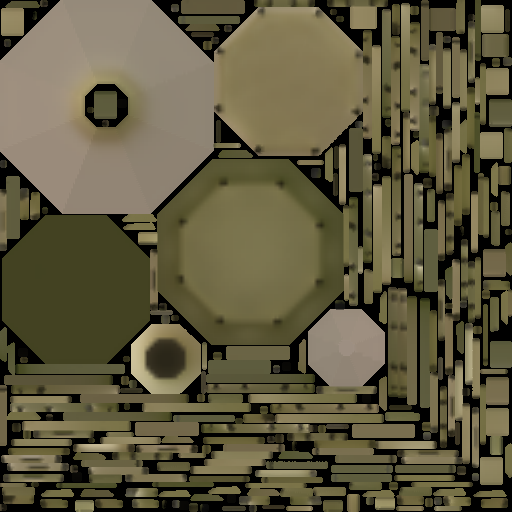
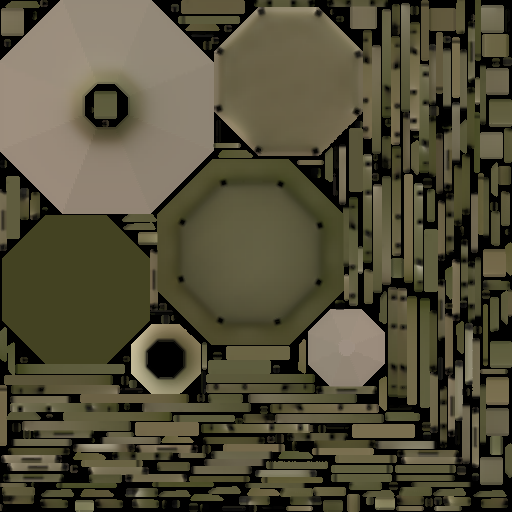
Update bake light bounce & fix seam lighting on lightmap

diff --git a/Projects/Skylicht/Engine/Source/RenderPipeline/CDeferredRP.cpp b/Projects/Skylicht/Engine/Source/RenderPipeline/CDeferredRP.cpp
@@ -33,6 +33,7 @@ https://github.com/skylicht-lab/skylicht-engine
 #include "Lighting/CPointLight.h"
 #include "IndirectLighting/CIndirectLightingData.h"
 #include "Material/Shader/ShaderCallback/CShaderMaterial.h"
+#include "Lighting/CDirectionalLight.h"
 
 namespace Skylicht
 {
@@ -356,10 +357,7 @@ namespace Skylicht
 		if (CBaseRP::s_bakeMode == true && CBaseRP::s_bakeLMMode)
 		{
 			// default light setting
-			if (CBaseRP::s_bakeBounce <= 1)
-				CShaderManager::getInstance()->ShaderVec3[0] = core::vector3df(1.0f, 1.0f, 1.0f);
-			else
-				CShaderManager::getInstance()->ShaderVec3[0] = core::vector3df(1.0f, 0.6f, 0.0f);
+			CShaderManager::getInstance()->ShaderVec3[0] = core::vector3df(1.0f, 1.0f, 1.0f);
 		}
 		else
 		{
@@ -388,6 +386,10 @@ namespace Skylicht
 		if (useCustomViewport)
 			driver->setViewPort(customViewport);
 
+		u32 totalBounce = 1;
+		if (CDirectionalLight::getCurrentDirectionLight() != NULL)
+			totalBounce = CDirectionalLight::getCurrentDirectionLight()->getBounce();
+
 		CLightCullingSystem *lightCullingSystem = entityManager->getSystem<CLightCullingSystem>();
 		if (lightCullingSystem != NULL)
 		{
@@ -395,24 +397,37 @@ namespace Skylicht
 			for (u32 i = 0, n = listLight.size(); i < n; i++)
 			{
 				CLight *light = listLight[i]->Light;
-				CPointLight *pointLight = dynamic_cast<CPointLight*>(light);
-				if (pointLight != NULL)
+
+				bool renderLight = true;
+
+				if (s_bakeMode == true && s_bakeLMMode == true)
 				{
-					CShaderLighting::setPointLight(pointLight);
+					u32 lightBounce = light->getBounce();
+					if ((u32)s_bakeBounce < totalBounce - lightBounce)
+						renderLight = false;
+				}
 
-					if (pointLight->isCastShadow() == true)
+				if (renderLight == true)
+				{
+					CPointLight *pointLight = dynamic_cast<CPointLight*>(light);
+					if (pointLight != NULL)
 					{
-						m_pointLightPass.MaterialType = m_pointLightShadowShader;
-						m_pointLightPass.setTexture(3, pointLight->createGetDepthTexture());
-					}
-					else
-					{
-						m_pointLightPass.MaterialType = m_pointLightShader;
-						m_pointLightPass.setTexture(3, NULL);
-					}
+						CShaderLighting::setPointLight(pointLight);
 
-					beginRender2D(renderW, renderH);
-					renderBufferToTarget(0.0f, 0.0f, renderW, renderH, m_pointLightPass);
+						if (pointLight->isCastShadow() == true)
+						{
+							m_pointLightPass.MaterialType = m_pointLightShadowShader;
+							m_pointLightPass.setTexture(3, pointLight->createGetDepthTexture());
+						}
+						else
+						{
+							m_pointLightPass.MaterialType = m_pointLightShader;
+							m_pointLightPass.setTexture(3, NULL);
+						}
+
+						beginRender2D(renderW, renderH);
+						renderBufferToTarget(0.0f, 0.0f, renderW, renderH, m_pointLightPass);
+					}
 				}
 			}
 		}

diff --git a/Samples/Lightmapping/Source/CViewBakeLightmap.cpp b/Samples/Lightmapping/Source/CViewBakeLightmap.cpp
@@ -4,8 +4,6 @@
 #include "Context/CContext.h"
 #include "ViewManager/CViewManager.h"
 
-u32 CViewBakeLightmap::s_numLightBounce = 3;
-
 CViewBakeLightmap::CViewBakeLightmap() :
 	m_currentPass(0),
 	m_currentMB(0),
@@ -163,6 +161,8 @@ void CViewBakeLightmap::onDestroy()
 {
 	// save progress to continue next time
 	saveProgress();
+
+	CBaseRP::setBakeLightmapMode(false);
 }
 
 void CViewBakeLightmap::onUpdate()
@@ -175,6 +175,12 @@ void CViewBakeLightmap::onUpdate()
 		CDeferredRP::enableRenderIndirect(true);
 
 	CBaseRP::SetBakeLightingMapBounce(m_lightBounce);
+	CBaseRP::setBakeLightmapMode(true);
+
+	u32 numLightBounce = 1;
+
+	if (CDirectionalLight::getCurrentDirectionLight() != NULL)
+		numLightBounce = CDirectionalLight::getCurrentDirectionLight()->getBounce();
 
 	for (int loopCount = 0; loopCount < 64; loopCount++)
 	{
@@ -194,7 +200,7 @@ void CViewBakeLightmap::onUpdate()
 
 			char status[512];
 			sprintf(status, "LIGHTMAPPING (%d/%d):\n\n- MeshBuffer: %d/%d\n- Bake step: %d/%d\n- Triangle: %d/%d\n- Time: %d seconds - (%02d:%02d) hm",
-				m_lightBounce + 1, s_numLightBounce,
+				m_lightBounce + 1, numLightBounce,
 				m_currentMB + 1, (int)m_meshBuffers.size(),
 				m_currentPass + 1, 7,
 				m_currentTris, numTris,
@@ -430,7 +436,7 @@ void CViewBakeLightmap::onUpdate()
 				for (int i = 0; i < m_numberRasterize; i++)
 					m_lmRasterize[i]->resetBake();
 
-				if (m_lightBounce >= s_numLightBounce)
+				if (m_lightBounce >= numLightBounce)
 				{
 					gotoDemoView();
 				}
@@ -607,8 +613,13 @@ void CViewBakeLightmap::loadProgress()
 
 			if (m_currentPass >= (int)CRasterisation::PassCount)
 			{
+				u32 numLightBounce = 1;
+
+				if (CDirectionalLight::getCurrentDirectionLight() != NULL)
+					numLightBounce = CDirectionalLight::getCurrentDirectionLight()->getBounce();
+
 				// finish
-				if (m_lightBounce >= s_numLightBounce)
+				if (m_lightBounce >= numLightBounce)
 				{
 					gotoDemoView();
 				}

diff --git a/Samples/LightmappingVertex/Source/CViewBakeLightmap.cpp b/Samples/LightmappingVertex/Source/CViewBakeLightmap.cpp
@@ -5,8 +5,6 @@
 #include "CViewDemo.h"
 #include "Importer/Utils/CMeshUtils.h"
 
-int CViewBakeLightmap::s_numLightBounce = 2;
-
 CViewBakeLightmap::CViewBakeLightmap() :
 	m_guiObject(NULL),
 	m_bakeCameraObject(NULL),
@@ -115,7 +113,7 @@ void CViewBakeLightmap::onInit()
 
 void CViewBakeLightmap::onDestroy()
 {
-
+	CBaseRP::setBakeLightmapMode(false);
 }
 
 void CViewBakeLightmap::onUpdate()
@@ -130,9 +128,14 @@ void CViewBakeLightmap::onUpdate()
 	if (scene != NULL)
 		scene->update();
 
+	// get total light bounce
+	u32 numLightBounce = 1;
+	if (CDirectionalLight::getCurrentDirectionLight() != NULL)
+		numLightBounce = CDirectionalLight::getCurrentDirectionLight()->getBounce();
+
 	// bake lightmap
 	u32 numMB = m_neshBuffers.size();
-	if (m_currentMeshBuffer < numMB && s_numLightBounce > 0)
+	if (m_currentMeshBuffer < numMB && numLightBounce > 0)
 	{
 		if (m_lightBounce == 0)
 			CDeferredRP::enableRenderIndirect(false);
@@ -140,6 +143,7 @@ void CViewBakeLightmap::onUpdate()
 			CDeferredRP::enableRenderIndirect(true);
 
 		CBaseRP::SetBakeLightingMapBounce(m_lightBounce);
+		CBaseRP::setBakeLightmapMode(true);
 
 		IMeshBuffer *mb = m_neshBuffers[m_currentMeshBuffer];
 		SColorBuffer *cb = m_colorBuffers[m_currentMeshBuffer];
@@ -156,7 +160,7 @@ void CViewBakeLightmap::onUpdate()
 		char status[512];
 		sprintf(status, "LIGHTMAPPING (%d/%d): %d%%\n\n- MeshBuffer: %d/%d\n- Vertex: %d/%d\n\n - Total: %d\n-Time: %d seconds",
 			m_lightBounce + 1,
-			s_numLightBounce,
+			numLightBounce,
 			(int)percent,
 			m_currentMeshBuffer + 1, numMB,
 			m_currentVertex, numVtx,
@@ -197,7 +201,7 @@ void CViewBakeLightmap::onUpdate()
 		m_currentMeshBuffer = 0;
 		m_currentVertex = 0;
 
-		if (m_lightBounce >= s_numLightBounce)
+		if (m_lightBounce >= numLightBounce)
 		{
 			// test exporter
 			if (m_renderMesh.size() > 0)

diff --git a/Samples/Lightmapping/Source/CViewInit.cpp b/Samples/Lightmapping/Source/CViewInit.cpp
@@ -80,6 +80,7 @@ void CViewInit::onInit()
 
 	CDirectionalLight *directionalLight = lightObj->addComponent<CDirectionalLight>();
 	directionalLight->setIntensity(1.0f);
+	directionalLight->setBounce(3);
 
 	CTransformEuler *lightTransform = lightObj->getTransformEuler();
 	lightTransform->setPosition(core::vector3df(2.0f, 2.0f, 2.0f));
@@ -106,6 +107,7 @@ void CViewInit::onInit()
 		CPointLight *pointLight = pointLightObj->addComponent<CPointLight>();
 		pointLight->setShadow(true);
 		pointLight->setColor(SColor(255, 221, 123, 34));
+		pointLight->setBounce(1);
 
 		if (i >= 4)
 			pointLight->setRadius(1.0f);
@@ -122,6 +124,8 @@ void CViewInit::onInit()
 #else
 	CGameObject *lightObj = zone->createEmptyObject();
 	CDirectionalLight *directionalLight = lightObj->addComponent<CDirectionalLight>();
+	directionalLight->setBounce(2);
+
 	CTransformEuler *lightTransform = lightObj->getTransformEuler();
 	lightTransform->setPosition(core::vector3df(2.0f, 2.0f, 2.0f));
 

diff --git a/Projects/Skylicht/Engine/Source/Lighting/CDirectionalLight.cpp b/Projects/Skylicht/Engine/Source/Lighting/CDirectionalLight.cpp
@@ -30,9 +30,12 @@ https://github.com/skylicht-lab/skylicht-engine
 
 namespace Skylicht
 {
+	CDirectionalLight *CDirectionalLight::s_currentLight = NULL;
+
 	CDirectionalLight::CDirectionalLight()
 	{
-
+		// default 3 bounce
+		m_bakeBounce = 3;
 	}
 
 	CDirectionalLight::~CDirectionalLight()
@@ -44,6 +47,8 @@ namespace Skylicht
 	void CDirectionalLight::initComponent()
 	{
 		CShaderLighting::setDirectionalLight(this);
+
+		s_currentLight = this;
 	}
 
 	void CDirectionalLight::updateComponent()

diff --git a/Projects/Skylicht/Lightmapper/Source/Lightmapper/CLightmapper.cpp b/Projects/Skylicht/Lightmapper/Source/Lightmapper/CLightmapper.cpp
@@ -127,9 +127,7 @@ namespace Skylicht
 			{
 				int numMT = count - current;
 				numMT = core::min_(numMT, maxMT);
-
-				CBaseRP::setBakeLightmapMode(true);
-
+				
 				// bake and get SH result
 				baker->bake(camera,
 					rp,
@@ -140,8 +138,6 @@ namespace Skylicht
 					binormal + current,
 					numMT,
 					numFace);
-
-				CBaseRP::setBakeLightmapMode(false);
 
 				for (int i = 0; i < numMT; i++)
 					out.push_back(baker->getSH(i));

diff --git a/Projects/Skylicht/Engine/Source/Lighting/CLight.h b/Projects/Skylicht/Engine/Source/Lighting/CLight.h
@@ -55,6 +55,9 @@ namespace Skylicht
 		//! Intensity of light
 		float m_intensity;
 
+		//! Number bounce of light on bake lighting
+		u32 m_bakeBounce;
+
 	public:
 		CLight();
 
@@ -78,6 +81,16 @@ namespace Skylicht
 		inline float getRadius()
 		{
 			return m_radius;
+		}
+
+		void setBounce(u32 b)
+		{
+			m_bakeBounce = b;
+		}
+
+		u32 getBounce()
+		{
+			return m_bakeBounce;
 		}
 
 		void setRadius(float r)

diff --git a/Projects/Skylicht/Engine/Source/Lighting/CDirectionalLight.h b/Projects/Skylicht/Engine/Source/Lighting/CDirectionalLight.h
@@ -30,6 +30,9 @@ namespace Skylicht
 {
 	class CDirectionalLight : public CLight
 	{
+	protected:
+		static CDirectionalLight *s_currentLight;
+
 	public:
 		CDirectionalLight();
 
@@ -38,5 +41,10 @@ namespace Skylicht
 		virtual void initComponent();
 
 		virtual void updateComponent();
+
+		static CDirectionalLight* getCurrentDirectionLight()
+		{
+			return s_currentLight;
+		}
 	};
 }

diff --git a/Projects/Skylicht/Lightmapper/Source/Rasterisation/CRasterisation.cpp b/Projects/Skylicht/Lightmapper/Source/Rasterisation/CRasterisation.cpp
@@ -651,8 +651,8 @@ namespace Skylicht
 
 				// use QuadraticEaseIn function (y = x^2) or CubicEaseIn (y = x^3)
 				// [x -> 0.0 - 1.0] 
-				// [y -> 1.0 - 1.3]
-				float darkMultipler = 1.0f + 1.3f * l * l * l;
+				// [y -> 1.0 - 1.4]
+				float darkMultipler = 1.0f + 1.4f * l * l * l;
 
 				// compress lighting by 3.0
 				result *= darkMultipler / 3.0f;

diff --git a/Projects/Skylicht/Engine/Source/Lighting/CLight.cpp b/Projects/Skylicht/Engine/Source/Lighting/CLight.cpp
@@ -31,7 +31,8 @@ namespace Skylicht
 		m_castShadow(false),
 		m_color(1.0f, 1.0f, 1.0f, 1.0f),
 		m_spotCutoff(core::PI / 4.0f),
-		m_intensity(1.0f)
+		m_intensity(1.0f),
+		m_bakeBounce(1)
 	{
 		setRadius(3.0f);
 	}

diff --git a/Projects/Skylicht/Engine/Source/RenderPipeline/CBaseRP.h b/Projects/Skylicht/Engine/Source/RenderPipeline/CBaseRP.h
@@ -89,6 +89,8 @@ namespace Skylicht
 
 		static void SetBakeLightingMapBounce(int i);
 
+		static void SetBakeLightingTotalBounce(int i);
+
 		void unbindRTT();
 
 		void enableUpdateEntity(bool b)

diff --git a/Samples/LightmappingVertex/Source/CViewBakeLightmap.h b/Samples/LightmappingVertex/Source/CViewBakeLightmap.h
@@ -14,8 +14,6 @@ public:
 		core::array<CSH9> SH;
 	};
 
-	static int s_numLightBounce;
-
 protected:
 	CGameObject *m_guiObject;
 	CGameObject *m_bakeCameraObject;
